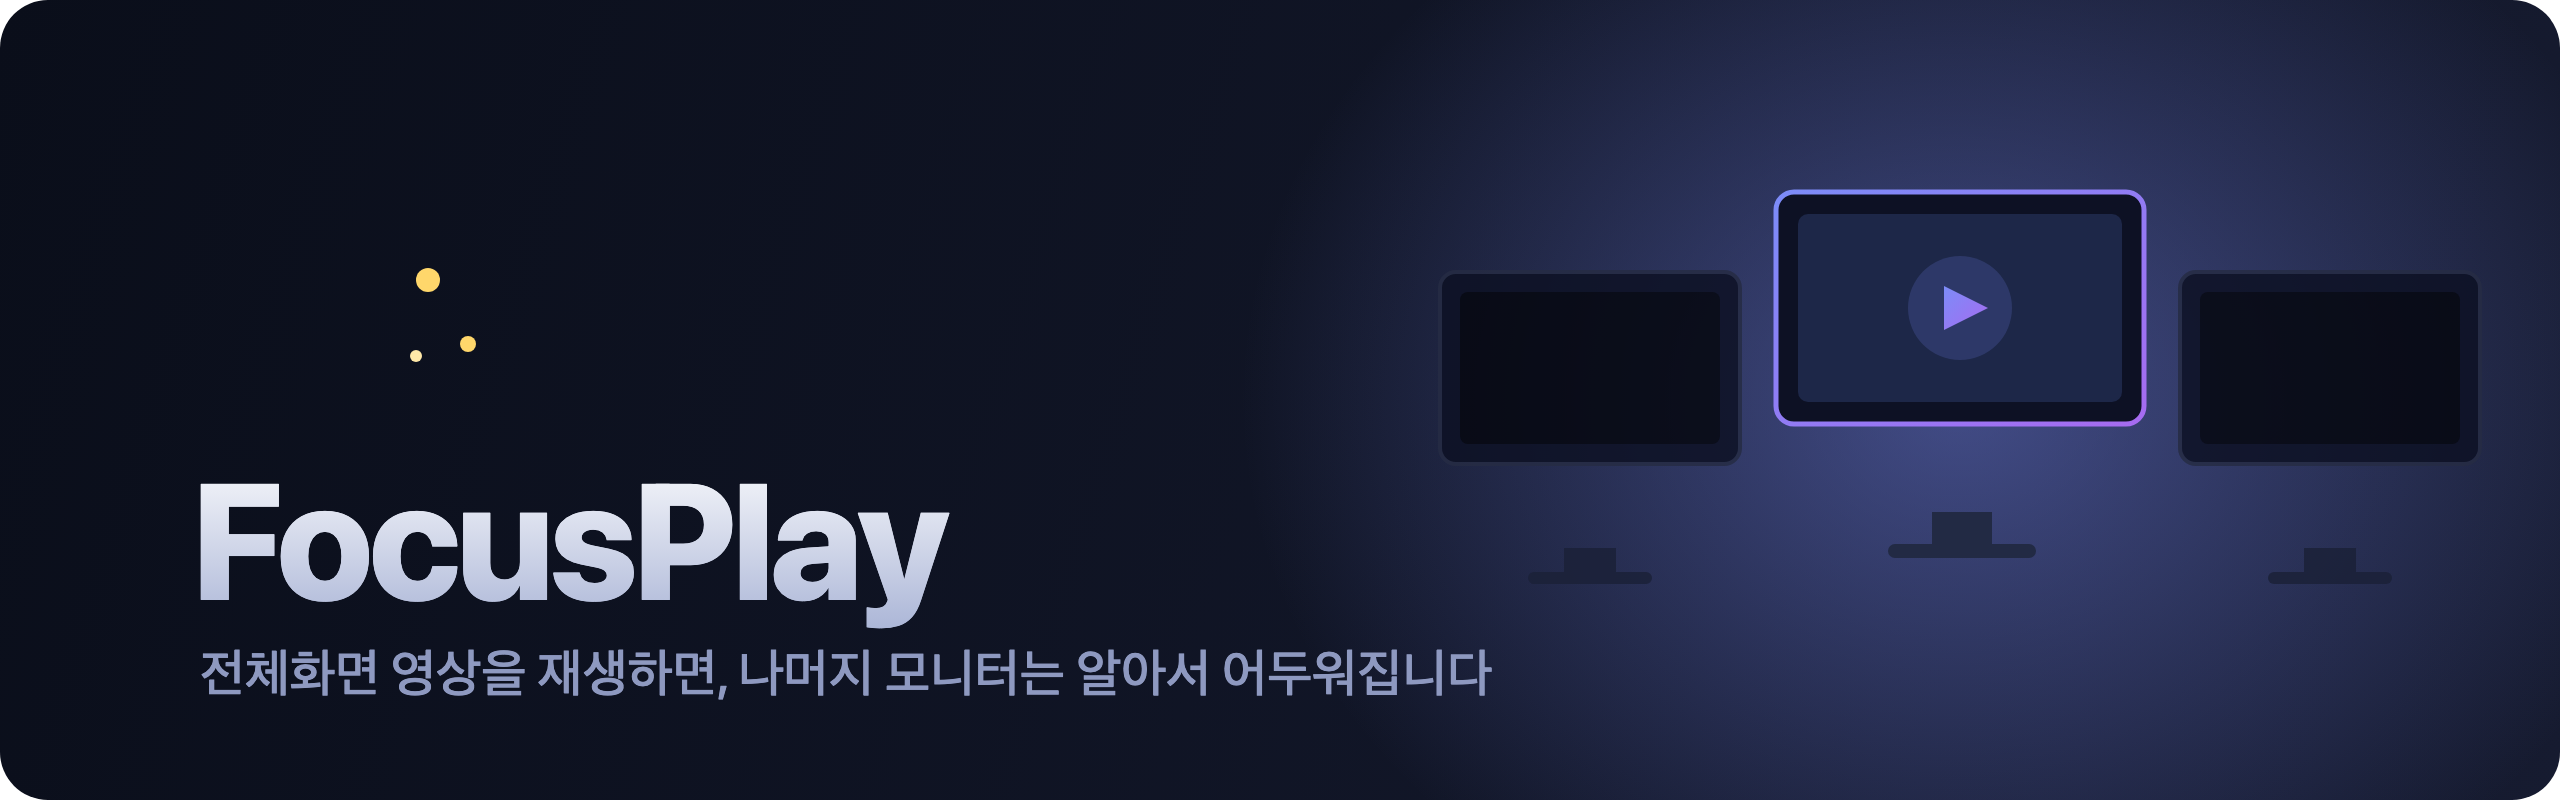
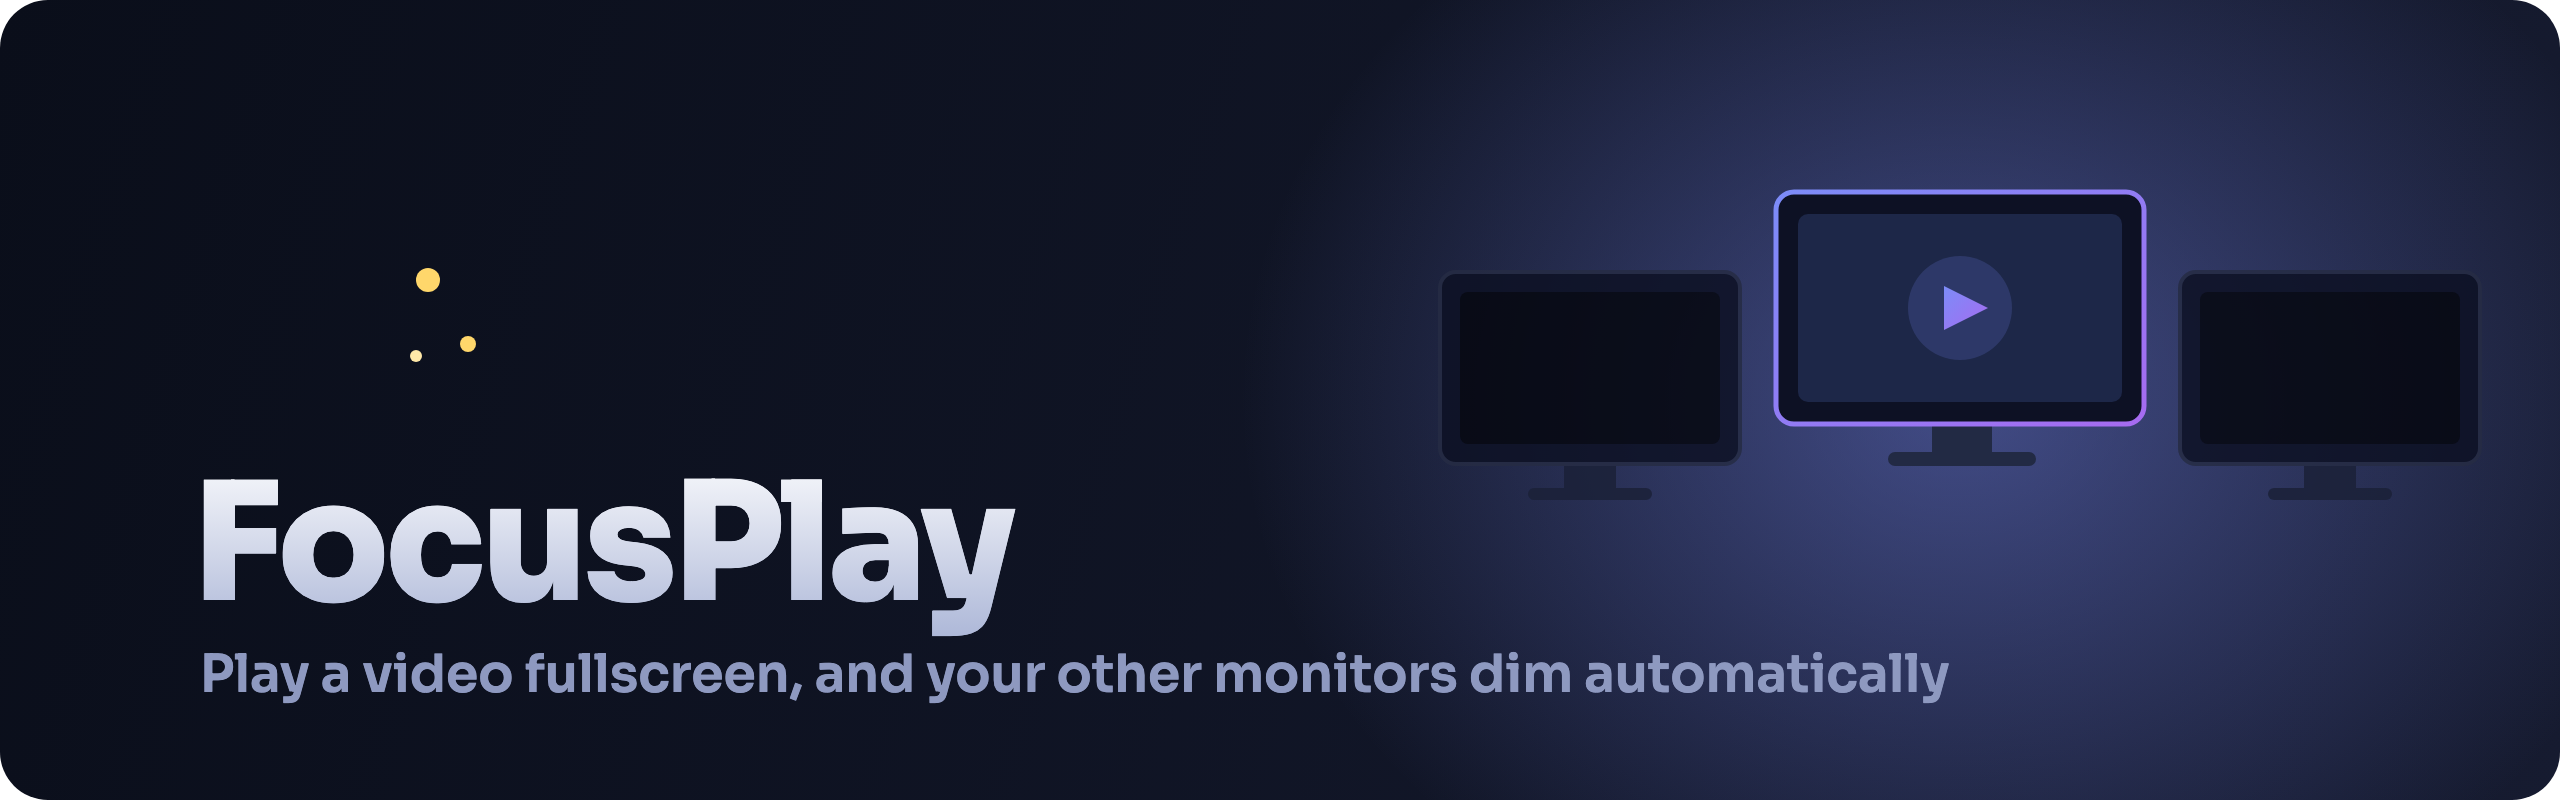
docs: README 한·영 통합(영어 우선) + 타이틀/데모 이미지 리뉴얼
- README.md 하나로 통합, README.en.md 삭제
- 타이틀/데모 영어화, Sora 폰트 적용, 모니터 받침 정렬
- Chrome 렌더로 고해상도 PNG 재생성

diff --git a/README.md b/README.md
@@ -3,7 +3,7 @@
 </p>
 
 <p align="center">
-  <b>한국어</b> · <a href="README.en.md">English</a>
+  <b>English</b> · <a href="#korean">한국어</a>
 </p>
 
 <p align="center">
@@ -13,6 +13,121 @@
   <img src="https://img.shields.io/badge/SwiftPM-build-brightgreen?style=flat-square&logo=swift&logoColor=white" alt="SwiftPM">
   <img src="https://img.shields.io/badge/permissions-none-success?style=flat-square" alt="no permissions">
   <a href="https://github.com/TypoStudio/focus-play/releases/latest"><img src="https://img.shields.io/github/v/release/TypoStudio/focus-play?style=flat-square&logo=apple&logoColor=white&label=download&color=7c8cf8" alt="download"></a>
+</p>
+
+# FocusPlay
+
+A macOS menu bar app that **automatically dims your other monitors when a video plays fullscreen on one of them**. While you focus on the video, the bright screens on your other displays no longer distract you.
+
+<p align="center">
+  <img src="assets/demo.png" alt="How it works" width="100%">
+</p>
+
+## Features
+
+- 🎬 **Automatic fullscreen video detection** — only the monitor playing fullscreen video stays bright; the rest are covered with a black overlay.
+- 🖱️ **Follows your mouse** — move the cursor onto a dimmed monitor and it brightens again; move away and it dims back.
+- 🔄 **Auto restore** — exit fullscreen and every monitor returns to its original brightness.
+- 🎯 **Video only** — fullscreen text editors, documents, and other non-video apps are *not* dimmed.
+- 🌗 **Adjustable dim strength** — 70 / 85 / 92 / 98 / 100% (default 98%).
+- ⏸️ **Pause behavior option** — choose whether to brighten when playback pauses (default: stay dimmed while fullscreen is held).
+- 🔒 **No permissions required** — works without Accessibility or Screen Recording permissions.
+- 🌐 **Localized** — Korean, English, Japanese, Chinese (Simplified/Traditional), Spanish, Hindi.
+
+## Install & Run
+
+### Homebrew
+
+```bash
+brew install --cask typostudio/tap/focusplay
+```
+
+The app is unsigned, so if the first launch is blocked by Gatekeeper, clear the quarantine attribute once.
+
+```bash
+xattr -dr com.apple.quarantine /Applications/FocusPlay.app
+```
+
+### Download
+
+Grab `FocusPlay-x.y.z.zip` from the [**latest release**](https://github.com/TypoStudio/focus-play/releases/latest), unzip it, and move `FocusPlay.app` to your **Applications** folder. On first launch, right-click → **Open** (unsigned app).
+
+### Quick run (development)
+
+```bash
+swift run
+```
+
+A 🌙 icon appears in the menu bar (it does not show in the Dock).
+
+### Build a distributable app
+
+```bash
+./scripts/build-app.sh
+```
+
+This produces `build/FocusPlay.app`. Move it to `/Applications`. To launch at login, add it under **System Settings → General → Login Items**.
+
+> The app is unsigned, so on first launch right-click → **Open** to allow it past Gatekeeper.
+
+## Usage
+
+Click the 🌙 menu bar icon:
+
+| Menu | Description |
+|------|-------------|
+| **Automatic (detect fullscreen)** | Detect fullscreen video and dim automatically (default) |
+| **Manual toggle** (`⌘D`) | Dim the monitors without the mouse, without video detection |
+| **Off** | Disable |
+| **Dim strength** | Choose 70 – 100% |
+| **Brighten when playback pauses** | When on, brightens as soon as playback pauses (default off) |
+
+## How it works
+
+"Fullscreen video" is determined by combining two signals — a window that fills the screen (fullscreen), and a sign that video is playing on that screen.
+
+- **Fullscreen detection**: `CGWindowList` finds an app window that covers the screen (including the menu bar area). A regular maximized window starts below the menu bar, so it is excluded; on notched MacBook displays the menu bar height (`safeAreaInsets`) is compensated for.
+- **Video detection**:
+  - Native video players (IINA, QuickTime, VLC, etc.) are recognized **by app name**.
+  - Browsers and PWAs (YouTube, Disney+, etc.) are recognized by the **display-sleep prevention assertion** they hold while playing (`IOPMCopyAssertionsByProcess`). For PWAs the window process and the assertion process differ, so instead of matching PIDs the two signals are debounced and combined independently.
+- **Overlay**: a `borderless` black window covers each monitor, floats above fullscreen Spaces (`fullScreenAuxiliary`), and passes clicks through.
+
+### Supported video players
+
+IINA · QuickTime Player · VLC · mpv · Movist / Movist Pro · Infuse · Elmedia Player · PotPlayer
+plus any browser or PWA that holds a video-playback assertion (Chrome · Safari · YouTube · Disney+, etc.).
+
+> To add a player that isn't listed, add its app name to `videoPlayers` in `DimController.swift`.
+
+## Requirements
+
+- macOS 13 (Ventura) or later
+- Swift 6.0 toolchain (Xcode 16+)
+
+## Project structure
+
+```
+Sources/FocusPlay/
+├── main.swift               # Entry point (.accessory policy = menu bar only)
+├── AppDelegate.swift        # Menu bar UI
+├── DimController.swift      # Polling, signal combination, overlay dimming
+├── FullscreenDetector.swift # Collects fullscreen + video-playback signals
+├── OverlayWindow.swift      # Black overlay window covering a monitor
+└── Localization.swift       # Localized string helper
+```
+
+## Support
+
+If you like this app, you can support it with a cup of coffee ☕
+
+<a href="https://www.buymeacoffee.com/typ0s2d10" target="_blank"><img src="https://cdn.buymeacoffee.com/buttons/v2/arial-yellow.png" alt="Buy Me A Coffee" height="50"></a>
+
+---
+
+<a id="korean"></a>
+
+<p align="center">
+  <a href="#focusplay">English</a> · <b>한국어</b>
 </p>
 
 # FocusPlay
@@ -116,3 +231,9 @@ Sources/FocusPlay/
 ├── Localization.swift      # 로컬라이즈 문자열 헬퍼
 └── Resources/<lang>.lproj/ # 6개 언어 문자열
 ```
+
+## 후원
+
+이 앱이 마음에 드신다면 커피 한 잔으로 응원해 주세요 ☕
+
+<a href="https://www.buymeacoffee.com/typ0s2d10" target="_blank"><img src="https://cdn.buymeacoffee.com/buttons/v2/arial-yellow.png" alt="Buy Me A Coffee" height="50"></a>